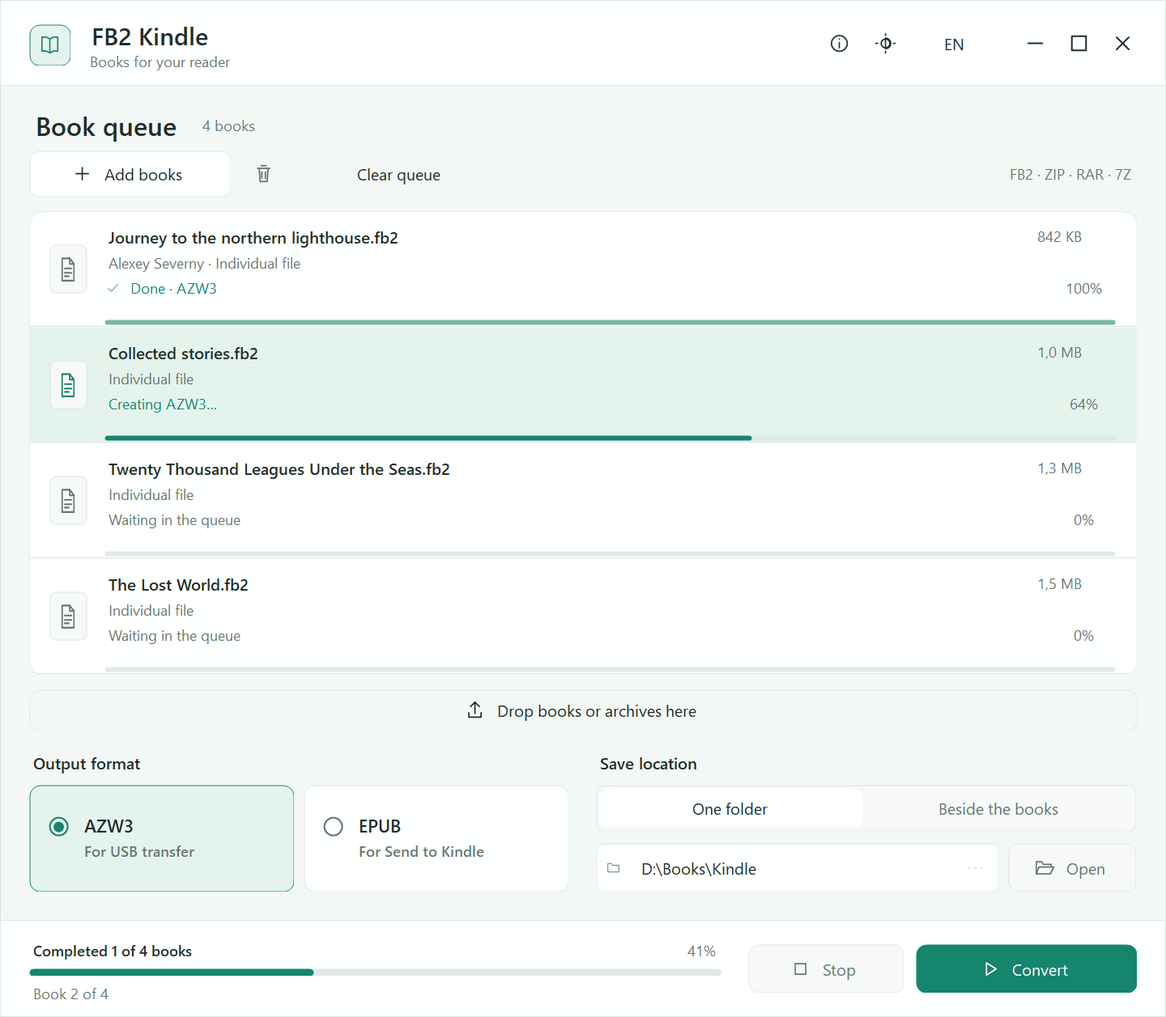
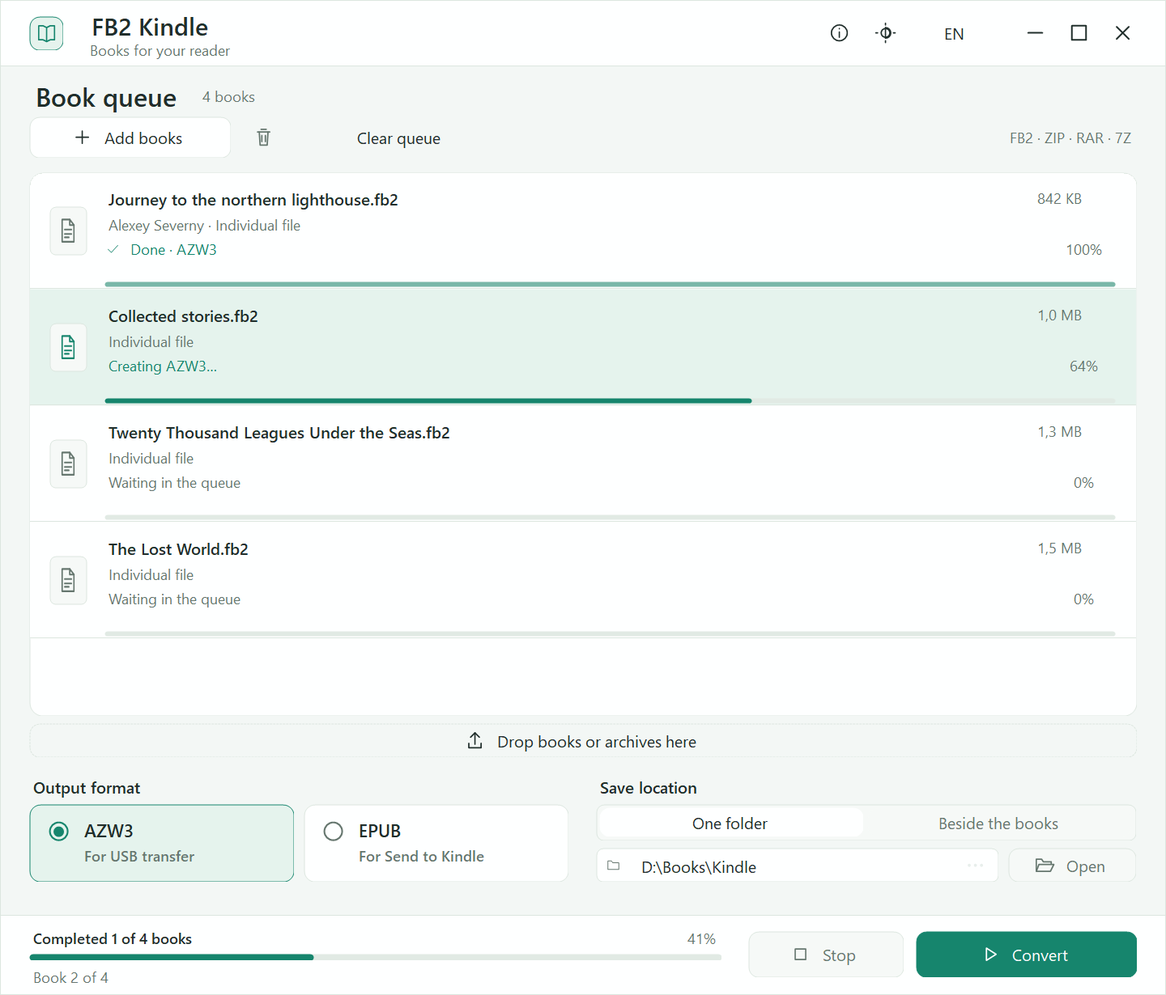
Use a shorter initial window while keeping seven queue rows visible

diff --git a/docs/index.html b/docs/index.html
@@ -33,7 +33,7 @@
 <main id="main">
 <section class="hero wrap" aria-labelledby="hero-title"><p class="eyebrow">FB2 Kindle 1.3.1 · Windows</p><h1 id="hero-title" data-i18n-html="title">Из FB2 —<br>на <em>вашу читалку.</em></h1><p class="intro" data-i18n="intro">Превратите FB2 и архивы с книгами в EPUB или AZW3. Понятная очередь, прогресс каждой книги и спокойный интерфейс MiraUI.</p>
 <div class="hero-actions"><a class="button primary" href="https://github.com/MerryGrim/fb2-kindle/releases/download/v1.3.1/FB2Kindle-1.3.1-Setup.exe"><svg viewBox="0 0 24 24" aria-hidden="true"><path d="M12 3v12m-4-4 4 4 4-4M4 16v5h16v-5"/></svg><span data-i18n="download">Скачать для Windows</span></a><a class="button" href="https://github.com/MerryGrim/fb2-kindle/releases/download/v1.3.1/FB2Kindle-Source-1.3.1.zip"><span data-i18n="sourceDownload">Скачать исходники</span><span aria-hidden="true">↗</span></a></div><p class="requirements" data-i18n="requirements">Windows 10 / 11 · x64 · .NET Framework 4.8</p>
-<div class="preview"><div class="preview-caption"><strong data-i18n="previewTitle">Вся очередь перед глазами</strong><span id="preview-appearance">MiraUI · Светлая тема · Русский</span></div><figure class="screenshot-frame"><img class="screenshot" id="screenshot" src="screenshots/1.3.1-ru-light.png" width="1440" height="1257" alt="FB2 Kindle 1.3.1: очередь книг, прогресс и настройки сохранения в светлой теме" fetchpriority="high"></figure><p class="preview-note" data-i18n="previewNote">Интерфейс приложения · язык и тема меняются кнопками сверху</p></div></section>
+<div class="preview"><div class="preview-caption"><strong data-i18n="previewTitle">Вся очередь перед глазами</strong><span id="preview-appearance">MiraUI · Светлая тема · Русский</span></div><figure class="screenshot-frame"><img class="screenshot" id="screenshot" src="screenshots/1.3.1-ru-light.png" width="1440" height="1230" alt="FB2 Kindle 1.3.1: очередь книг, прогресс и настройки сохранения в светлой теме" fetchpriority="high"></figure><p class="preview-note" data-i18n="previewNote">Интерфейс приложения · язык и тема меняются кнопками сверху</p></div></section>
 <section class="workflow wrap" aria-labelledby="workflow-title"><h2 class="section-title" id="workflow-title" data-i18n="workflowTitle">Три шага — и можно читать</h2><ol class="steps"><li><span class="step-number">01</span><h3 data-i18n="step1Title">Добавьте книги</h3><p data-i18n="step1">Перетащите FB2, ZIP, RAR или 7Z. Каждая книга из архива появится отдельной строкой.</p></li><li><span class="step-number">02</span><h3 data-i18n="step2Title">Выберите формат и папку</h3><p data-i18n="step2">AZW3 для USB или EPUB для Send to Kindle. Сохраняйте рядом с исходниками либо в выбранную папку.</p></li><li><span class="step-number">03</span><h3 data-i18n="step3Title">Запустите конвертацию</h3><p data-i18n="step3">Следите за общим прогрессом и каждой книгой. Очередь сама покажет текущую обработку; её можно остановить.</p></li></ol></section>
 <section class="format-section wrap" aria-labelledby="format-title"><div><h2 class="section-title" id="format-title" data-i18n="formatTitle">Какой формат выбрать?</h2><p class="section-copy" data-i18n="formatIntro">Зависит от того, как вы переносите книги. Обложка, оглавление, иллюстрации и сноски сохраняются при конвертации.</p></div><div><div class="format-picker" role="group" aria-label="Способ переноса книги" data-i18n-aria="formatPicker"><button class="format-button" type="button" data-format="AZW3" aria-pressed="true"><strong>AZW3</strong><span data-i18n="usb">По USB</span></button><button class="format-button" type="button" data-format="EPUB" aria-pressed="false"><strong>EPUB</strong><span>Send to Kindle</span></button></div><p class="format-description" id="format-description" aria-live="polite"></p><p class="format-caution" data-i18n="formatCaution">Программа сохраняет готовые файлы. Перенос по USB или отправку через сервис Amazon вы выполняете отдельно.</p></div></section>
 <section class="details-section wrap" aria-labelledby="local-title"><div><h2 class="local-title" id="local-title" data-i18n="localTitle">Ваши книги остаются у вас</h2><p class="section-copy" data-i18n="localText">Конвертация выполняется на компьютере. Приложение не загружает книги на сервер и не управляет подключённой читалкой. Движки уже включены в установщик, для работы интернет не нужен.</p></div><div><details><summary data-i18n="detailsRequirements">Требования и ограничения</summary><p data-i18n="limits">Windows 10 или 11 x64 и .NET Framework 4.8. Одна FB2-книга — до 96 МиБ. Парольные архивы предварительно распакуйте. Некоторые именованные стили FB2 упрощаются; результат зависит от читалки и её прошивки. Перенос на физический Kindle и сервис Send to Kindle не тестировались.</p></details><details><summary data-i18n="detailsQueue">Как устроена очередь</summary><p data-i18n="queueText">Общий и индивидуальный прогресс, автоматическая прокрутка к текущей книге и остановка обработки. Прокрутка внутри очереди появляется после семи книг. Существующие файлы не перезаписываются: одинаковые названия получают номера.</p></details><details><summary data-i18n="detailsLicenses">Исходники и лицензии</summary><p><span data-i18n="licenses">Собственный код и ресурсы — MIT. Установщик включает неизменённые Calibre 9.15.0 и 7-Zip 26.00 с их лицензиями, уведомлениями и соответствующими исходными архивами. Inno Setup сохраняет собственную лицензию.</span> <a href="https://github.com/MerryGrim/fb2-kindle/blob/main/THIRD-PARTY-NOTICES.md" data-i18n="licenseLink">Подробнее о компонентах</a></p></details></div></section>

diff --git a/source/MainForm.cs b/source/MainForm.cs
@@ -39,7 +39,7 @@ namespace Fb2Kindle
             Font=new Font("Segoe UI",10);StartPosition=FormStartPosition.Manual;Text="FB2 Kindle";KeyPreview=true;
             try{Icon=Icon.ExtractAssociatedIcon(Application.ExecutablePath);}catch{}
             Rectangle work=Screen.FromControl(this).WorkingArea;
-            Size=new Size(Math.Min(S(960),work.Width-S(24)),Math.Min(S(980),work.Height-S(24)));MinimumSize=new Size(Math.Min(S(900),work.Width-S(24)),Math.Min(S(740),work.Height-S(24)));
+            Size=new Size(Math.Min(S(960),work.Width-S(24)),Math.Min(S(820),work.Height-S(24)));MinimumSize=new Size(Math.Min(S(900),work.Width-S(24)),Math.Min(S(740),work.Height-S(24)));
             SetupLabel(brand,"FB2 Kindle",15,true);SetupLabel(subtitle,"Книги для вашей читалки",9,false);
             SetupLabel(heading,"Очередь книг",16,true);SetupLabel(count,"",9,false);SetupLabel(formats,"FB2 · ZIP · RAR · 7Z",9,false);
             SetupLabel(formatTitle,"Формат результата",10,true);SetupLabel(saveTitle,"Сохранение",10,true);
@@ -59,7 +59,7 @@ namespace Fb2Kindle
             Controls.Add(destinationModes);destinationModes.Controls.Add(together);destinationModes.Controls.Add(beside);Controls.Add(overall);
             language.Font=new Font("Segoe UI",10);language.UiScale=UiScale;language.Quiet=true;Controls.Add(language);language.Click+=delegate{ShowLanguageMenu();};
             lastFolder=UiSettings.Folder;azw3.Selected=UiSettings.Format=="AZW3";epub.Selected=!azw3.Selected;beside.Selected=UiSettings.Beside;together.Selected=!beside.Selected;
-            brand.MouseDown+=DragHeader;subtitle.MouseDown+=DragHeader;MouseDown+=delegate(object sender,MouseEventArgs e){if(e.Y<S(ClientSize.Height<S(740)?54:70))DragHeader(sender,e);};
+            brand.MouseDown+=DragHeader;subtitle.MouseDown+=DragHeader;MouseDown+=delegate(object sender,MouseEventArgs e){if(e.Y<S(CompactLayout?54:70))DragHeader(sender,e);};
             theme.Click+=delegate{SetTheme(!MiraTheme.Dark,true);};about.Click+=delegate{using(AboutForm f=new AboutForm())f.ShowDialog(this);};minimize.Click+=delegate{WindowState=FormWindowState.Minimized;};maximize.Click+=delegate{ToggleMaximize();};close.Click+=delegate{Close();};
             add.Click+=async delegate{await ChooseBooks();};drop.Click+=async delegate{if(!busy)await ChooseBooks();};remove.Click+=delegate{RemoveBooks();};clear.Click+=delegate{if(!busy){queue.Books.Clear();queue.Selected.Clear();queue.RefreshBooks();completedCount=0;SetStatus("Добавьте книги для конвертации");RefreshActions();RefreshProgress();}};
             azw3.Click+=delegate{SetFormat("AZW3");};epub.Click+=delegate{SetFormat("EPUB");};together.Click+=delegate{SetDestination(false);};beside.Click+=delegate{SetDestination(true);};browse.Click+=delegate{ChooseFolder();};open.Click+=delegate{OpenResultFolder();};
@@ -70,6 +70,7 @@ namespace Fb2Kindle
             MiraTheme.Changed+=ApplyTheme;initializing=false;RefreshLanguage();ApplyTheme();UpdateDestinationText();RefreshActions();
         }
         int S(int value){return (int)Math.Round(value*UiScale);}
+        bool CompactLayout{get{return ClientSize.Height<S(904);}}
         protected override void OnLoad(EventArgs e)
         {
             if(!preview)
@@ -78,7 +79,7 @@ namespace Fb2Kindle
                 Screen screen=saved==null?Screen.FromPoint(Cursor.Position):Screen.FromRectangle(saved.Bounds);
                 Rectangle work=screen.WorkingArea;
                 MinimumSize=new Size(Math.Min(S(900),work.Width-S(24)),Math.Min(S(740),work.Height-S(24)));
-                Bounds=saved==null?WindowPlacement.Center(new Size(Math.Min(S(960),work.Width-S(24)),Math.Min(S(980),work.Height-S(24))),work):WindowPlacement.Resolve(saved.Bounds,saved.WorkingArea,work,MinimumSize);
+                Bounds=saved==null?WindowPlacement.Center(new Size(Math.Min(S(960),work.Width-S(24)),Math.Min(S(820),work.Height-S(24))),work):WindowPlacement.Resolve(saved.Bounds,saved.WorkingArea,work,MinimumSize);
                 normalWindowBounds=Bounds;
                 if(saved!=null&&saved.Maximized)WindowState=FormWindowState.Maximized;
                 lastVisibleWindowState=WindowState;
@@ -113,13 +114,13 @@ namespace Fb2Kindle
         void ToggleMaximize(){WindowState=WindowState==FormWindowState.Maximized?FormWindowState.Normal:FormWindowState.Maximized;maximize.IconName=WindowState==FormWindowState.Maximized?"restore":"square";PerformLayout();Invalidate(true);}
         protected override void OnLayout(LayoutEventArgs e)
         {
-            base.OnLayout(e);if(brand==null||initializing)return;int w=ClientSize.Width,h=ClientSize.Height,p=S(24),inner=w-p*2;bool shortHeight=h<S(740);
+            base.OnLayout(e);if(brand==null||initializing)return;int w=ClientSize.Width,h=ClientSize.Height,p=S(24),inner=w-p*2;bool shortHeight=CompactLayout;
             logo.SetBounds(p,S(shortHeight?13:20),S(shortHeight?28:34),S(shortHeight?28:34));brand.SetBounds(p+S(47),S(shortHeight?7:15),S(350),S(28));subtitle.SetBounds(p+S(47),S(shortHeight?31:40),S(350),S(20));
             int chromeY=S(shortHeight?10:19),x=w-S(18);foreach(MiraButton b in new[]{close,maximize,minimize}){x-=S(36);b.SetBounds(x,chromeY,S(36),S(34));}x-=S(12);language.SetBounds(x-S(67),chromeY+S(3),S(62),S(28));x-=S(76);theme.SetBounds(x-S(34),chromeY,S(34),S(34));about.SetBounds(x-S(72),chromeY,S(34),S(34));
             int headingY=S(shortHeight?64:88),toolbarY=S(shortHeight?96:124),toolbarH=S(shortHeight?34:38);
             heading.SetBounds(p,headingY,S(245),S(29));int headingWidth=TextRenderer.MeasureText(heading.Text,heading.Font).Width;count.SetBounds(p+Math.Min(S(245),headingWidth)+S(10),headingY+S(3),S(120),S(24));
             add.SetBounds(p,toolbarY,S(166),toolbarH);remove.SetBounds(p+S(174),toolbarY,S(38),toolbarH);clear.SetBounds(p+S(220),toolbarY,S(170),toolbarH);formats.SetBounds(w-p-S(180),toolbarY,S(180),toolbarH);formats.TextAlign=ContentAlignment.MiddleRight;
-            int settingsY=h-S(shortHeight?184:222),dropY=settingsY-S(shortHeight?40:48),queueY=S(shortHeight?142:174),queueH=Math.Min(S(672),Math.Max(1,dropY-S(shortHeight?8:12)-queueY));
+            int settingsY=h-S(shortHeight?184:222),dropY=settingsY-S(shortHeight?40:48),queueY=S(shortHeight?142:174),queueH=Math.Min(S(672),Math.Max(1,dropY-S(shortHeight?6:12)-queueY));
             queue.SetBounds(p,queueY,inner,queueH);drop.SetBounds(p,dropY,inner,S(shortHeight?28:34));
             int colGap=S(22),col=(inner-colGap)/2,right=p+col+colGap;formatTitle.SetBounds(p,settingsY,col,S(24));saveTitle.SetBounds(right,settingsY,col,S(24));
             int controlsY=settingsY+S(shortHeight?27:31),cardGap=S(8);azw3.SetBounds(p,controlsY,(col-cardGap)/2,S(shortHeight?64:88));epub.SetBounds(p+(col-cardGap)/2+cardGap,controlsY,(col-cardGap)/2,S(shortHeight?64:88));
@@ -128,7 +129,7 @@ namespace Fb2Kindle
             int foot=h-S(shortHeight?66:80),progressW=inner-S(342);overallTitle.SetBounds(p,foot+S(shortHeight?8:14),Math.Max(S(90),progressW-S(55)),S(21));overallPercent.SetBounds(p+progressW-S(50),foot+S(shortHeight?8:14),S(50),S(21));overallPercent.TextAlign=ContentAlignment.MiddleRight;overall.SetBounds(p,foot+S(shortHeight?32:40),progressW,S(shortHeight?5:6));status.SetBounds(p,foot+S(shortHeight?40:49),progressW,S(22));
             cancel.SetBounds(w-p-S(320),foot+S(shortHeight?13:20),S(128),S(shortHeight?38:40));convert.SetBounds(w-p-S(182),foot+S(shortHeight?13:20),S(182),S(shortHeight?38:40));queue.RefreshBooks();
         }
-        protected override void OnPaint(PaintEventArgs e){base.OnPaint(e);bool shortHeight=ClientSize.Height<S(740);int header=S(shortHeight?54:70),footer=S(shortHeight?66:80);using(SolidBrush b=new SolidBrush(MiraTheme.Surface)){e.Graphics.FillRectangle(b,0,0,Width,header);e.Graphics.FillRectangle(b,0,Height-footer,Width,footer);}using(Pen p=new Pen(MiraTheme.Border)){e.Graphics.DrawLine(p,0,header,Width,header);e.Graphics.DrawLine(p,0,Height-footer,Width,Height-footer);e.Graphics.DrawRectangle(p,0,0,Width-1,Height-1);}}
+        protected override void OnPaint(PaintEventArgs e){base.OnPaint(e);bool shortHeight=CompactLayout;int header=S(shortHeight?54:70),footer=S(shortHeight?66:80);using(SolidBrush b=new SolidBrush(MiraTheme.Surface)){e.Graphics.FillRectangle(b,0,0,Width,header);e.Graphics.FillRectangle(b,0,Height-footer,Width,footer);}using(Pen p=new Pen(MiraTheme.Border)){e.Graphics.DrawLine(p,0,header,Width,header);e.Graphics.DrawLine(p,0,Height-footer,Width,Height-footer);e.Graphics.DrawRectangle(p,0,0,Width-1,Height-1);}}
         void SetTheme(bool dark,bool save){MiraTheme.Set(dark);if(save&&!preview){UiSettings.Theme=dark?"dark":"light";UiSettings.Save();}}
         void ApplyTheme(){BackColor=MiraTheme.Background;ForeColor=MiraTheme.Text;foreach(Control c in Controls){c.BackColor=MiraTheme.Background;c.ForeColor=c==subtitle||c==count||c==formats||c==overallPercent||c==status?MiraTheme.Muted:MiraTheme.Text;}outputFolder.BackColor=MiraTheme.Surface;outputFolder.ForeColor=beside.Selected?MiraTheme.Muted:MiraTheme.Text;pathPanel.BackColor=MiraTheme.Background;destinationModes.BackColor=MiraTheme.Soft;language.BackColor=MiraTheme.Surface;language.ForeColor=MiraTheme.Text;overall.BackColor=MiraTheme.Surface;overallTitle.BackColor=overallPercent.BackColor=status.BackColor=MiraTheme.Surface;brand.BackColor=subtitle.BackColor=MiraTheme.Surface;foreach(MiraButton b in new[]{theme,about,minimize,maximize,close,logo,language})b.BackColor=MiraTheme.Surface;browse.BackColor=cancel.BackColor=convert.BackColor=MiraTheme.Surface;open.BackColor=MiraTheme.Background;together.BackColor=beside.BackColor=MiraTheme.Soft;Invalidate(true);}
         void SetFormat(string format){if(busy)return;azw3.Selected=format=="AZW3";epub.Selected=!azw3.Selected;azw3.Invalidate();epub.Invalidate();if(!preview){UiSettings.Format=format;UiSettings.Save();}}

diff --git a/tests/WindowPlacementTests.cs b/tests/WindowPlacementTests.cs
@@ -56,7 +56,7 @@ public static class WindowPlacementTests
     static void PurePlacement()
     {
         Rectangle work=new Rectangle(0,0,1920,1040),left=new Rectangle(-1600,60,1600,900);
-        Check(WindowPlacement.Center(new Size(960,980),work)==new Rectangle(480,30,960,980),"first-run placement is centered within working area");
+        Check(WindowPlacement.Center(new Size(960,820),work)==new Rectangle(480,110,960,820),"first-run placement is centered within working area");
         Rectangle normal=new Rectangle(170,90,1100,820);
         Check(WindowPlacement.Resolve(normal,work,work,new Size(900,740))==normal,"valid size and position are preserved exactly");
         Rectangle negative=new Rectangle(-1500,100,1000,800);
@@ -84,6 +84,11 @@ public static class WindowPlacementTests
         Check(Math.Abs(firstBounds.Left-(firstWork.Left+(firstWork.Width-firstBounds.Width)/2))<=1&&Math.Abs(firstBounds.Top-(firstWork.Top+(firstWork.Height-firstBounds.Height)/2))<=1,"native first launch is visibly centered");
         int expectedWidth=Math.Min((int)Math.Round(960*Single.Parse(first["scale"],CultureInfo.InvariantCulture)),firstWork.Width-(int)Math.Round(24*Single.Parse(first["scale"],CultureInfo.InvariantCulture)));
         Check(firstBounds.Width==expectedWidth,"native first launch uses the narrower 960 logical pixel width");
+        float scale=Single.Parse(first["scale"],CultureInfo.InvariantCulture);
+        int expectedHeight=Math.Min((int)Math.Round(820*scale),firstWork.Height-(int)Math.Round(24*scale));
+        Check(firstBounds.Height==expectedHeight,"native first launch uses the shorter 820 logical pixel height");
+        if(firstWork.Height>=(int)Math.Round(844*scale))Check(first["queue7"]=="False","native default window fits seven books without queue scrolling");
+        Check(first["queue8"]=="True","native default window scrolls internally when the eighth book is added");
         foreach(string mode in new[]{"normal","max","min-normal","min-max"})
         {
             string directory=Path.Combine(root,mode);
@@ -113,6 +118,11 @@ public static class WindowPlacementTests
             Rectangle normal=form.WindowState==FormWindowState.Normal?form.Bounds:form.RestoreBounds;
             FormWindowState startupState=form.WindowState;
             string startupIcon=((MiraButton)typeof(MainForm).GetField("maximize",BindingFlags.Instance|BindingFlags.NonPublic).GetValue(form)).IconName;
+            MiraQueue queue=(MiraQueue)typeof(MainForm).GetField("queue",BindingFlags.Instance|BindingFlags.NonPublic).GetValue(form);
+            for(int i=0;i<7;i++)queue.Books.Add(new BookItem{Source="Synthetic window QA "+i+".fb2"});
+            queue.RefreshBooks();Pump();bool sevenScroll=queue.VerticalScroll.Visible;
+            queue.Books.Add(new BookItem{Source="Synthetic window QA 8.fb2"});queue.RefreshBooks();Pump();bool eightScroll=queue.VerticalScroll.Visible;
+            queue.Books.Clear();queue.RefreshBooks();
             if(action.StartsWith("write-",StringComparison.Ordinal))
             {
                 form.WindowState=FormWindowState.Normal;Pump();
@@ -135,7 +145,7 @@ public static class WindowPlacementTests
                 form.Close();Pump();
             }
             float scale=form.UiScale;
-            File.WriteAllLines(Path.Combine(directory,action+".txt"),new[]{"bounds="+Rect(startupBounds),"normal="+Rect(normal),"work="+Rect(work),"state="+startupState,"icon="+startupIcon,"scale="+scale.ToString(CultureInfo.InvariantCulture),"theme="+UiSettings.Theme,"format="+UiSettings.Format,"folder="+UiSettings.Folder,"beside="+UiSettings.Beside},new UTF8Encoding(false));
+            File.WriteAllLines(Path.Combine(directory,action+".txt"),new[]{"bounds="+Rect(startupBounds),"normal="+Rect(normal),"work="+Rect(work),"state="+startupState,"icon="+startupIcon,"scale="+scale.ToString(CultureInfo.InvariantCulture),"queue7="+sevenScroll,"queue8="+eightScroll,"theme="+UiSettings.Theme,"format="+UiSettings.Format,"folder="+UiSettings.Folder,"beside="+UiSettings.Beside},new UTF8Encoding(false));
         }
         return 0;
     }

diff --git a/CHANGELOG.md b/CHANGELOG.md
@@ -4,19 +4,19 @@
 
 ### English
 
-- The first launch now opens in the center of the active screen, with a narrower default width of 960 logical pixels.
+- The first launch now opens in the center of the active screen, with a smaller default width and height of 960 × 820 logical pixels. The compact layout still fits seven books before the queue needs its own scrollbar.
 - The app remembers the window position, size, and maximized state between launches. Closing a minimized window preserves its previous normal or maximized state.
 - Saved window bounds are fitted to the available screen if a monitor is disconnected or the display working area changes.
 
 ### Русский
 
-- При первом запуске окно открывается по центру активного экрана; начальная ширина уменьшена до 960 логических пикселей.
+- При первом запуске окно открывается по центру активного экрана; начальные ширина и высота уменьшены до 960 × 820 логических пикселей. Компактный макет по-прежнему вмещает семь книг до появления внутренней прокрутки очереди.
 - Позиция, размер и развёрнутое состояние окна сохраняются между запусками. Закрытие свёрнутого окна сохраняет его предыдущее обычное или развёрнутое состояние.
 - После отключения монитора или изменения рабочей области экрана сохранённое окно размещается в доступной области.
 
 ### 简体中文
 
-- 首次启动时，窗口在当前屏幕中央打开，默认宽度缩小为 960 个逻辑像素。
+- 首次启动时，窗口在当前屏幕中央打开，默认宽度和高度缩小为 960 × 820 个逻辑像素。紧凑布局仍可容纳七本书，超过后才在队列内显示滚动条。
 - 程序会记住窗口的位置、大小和最大化状态。关闭已最小化的窗口时，会保留其之前的普通或最大化状态。
 - 显示器断开连接或屏幕工作区发生变化后，会调整已保存的窗口位置和大小，使其位于可用区域内。
 
